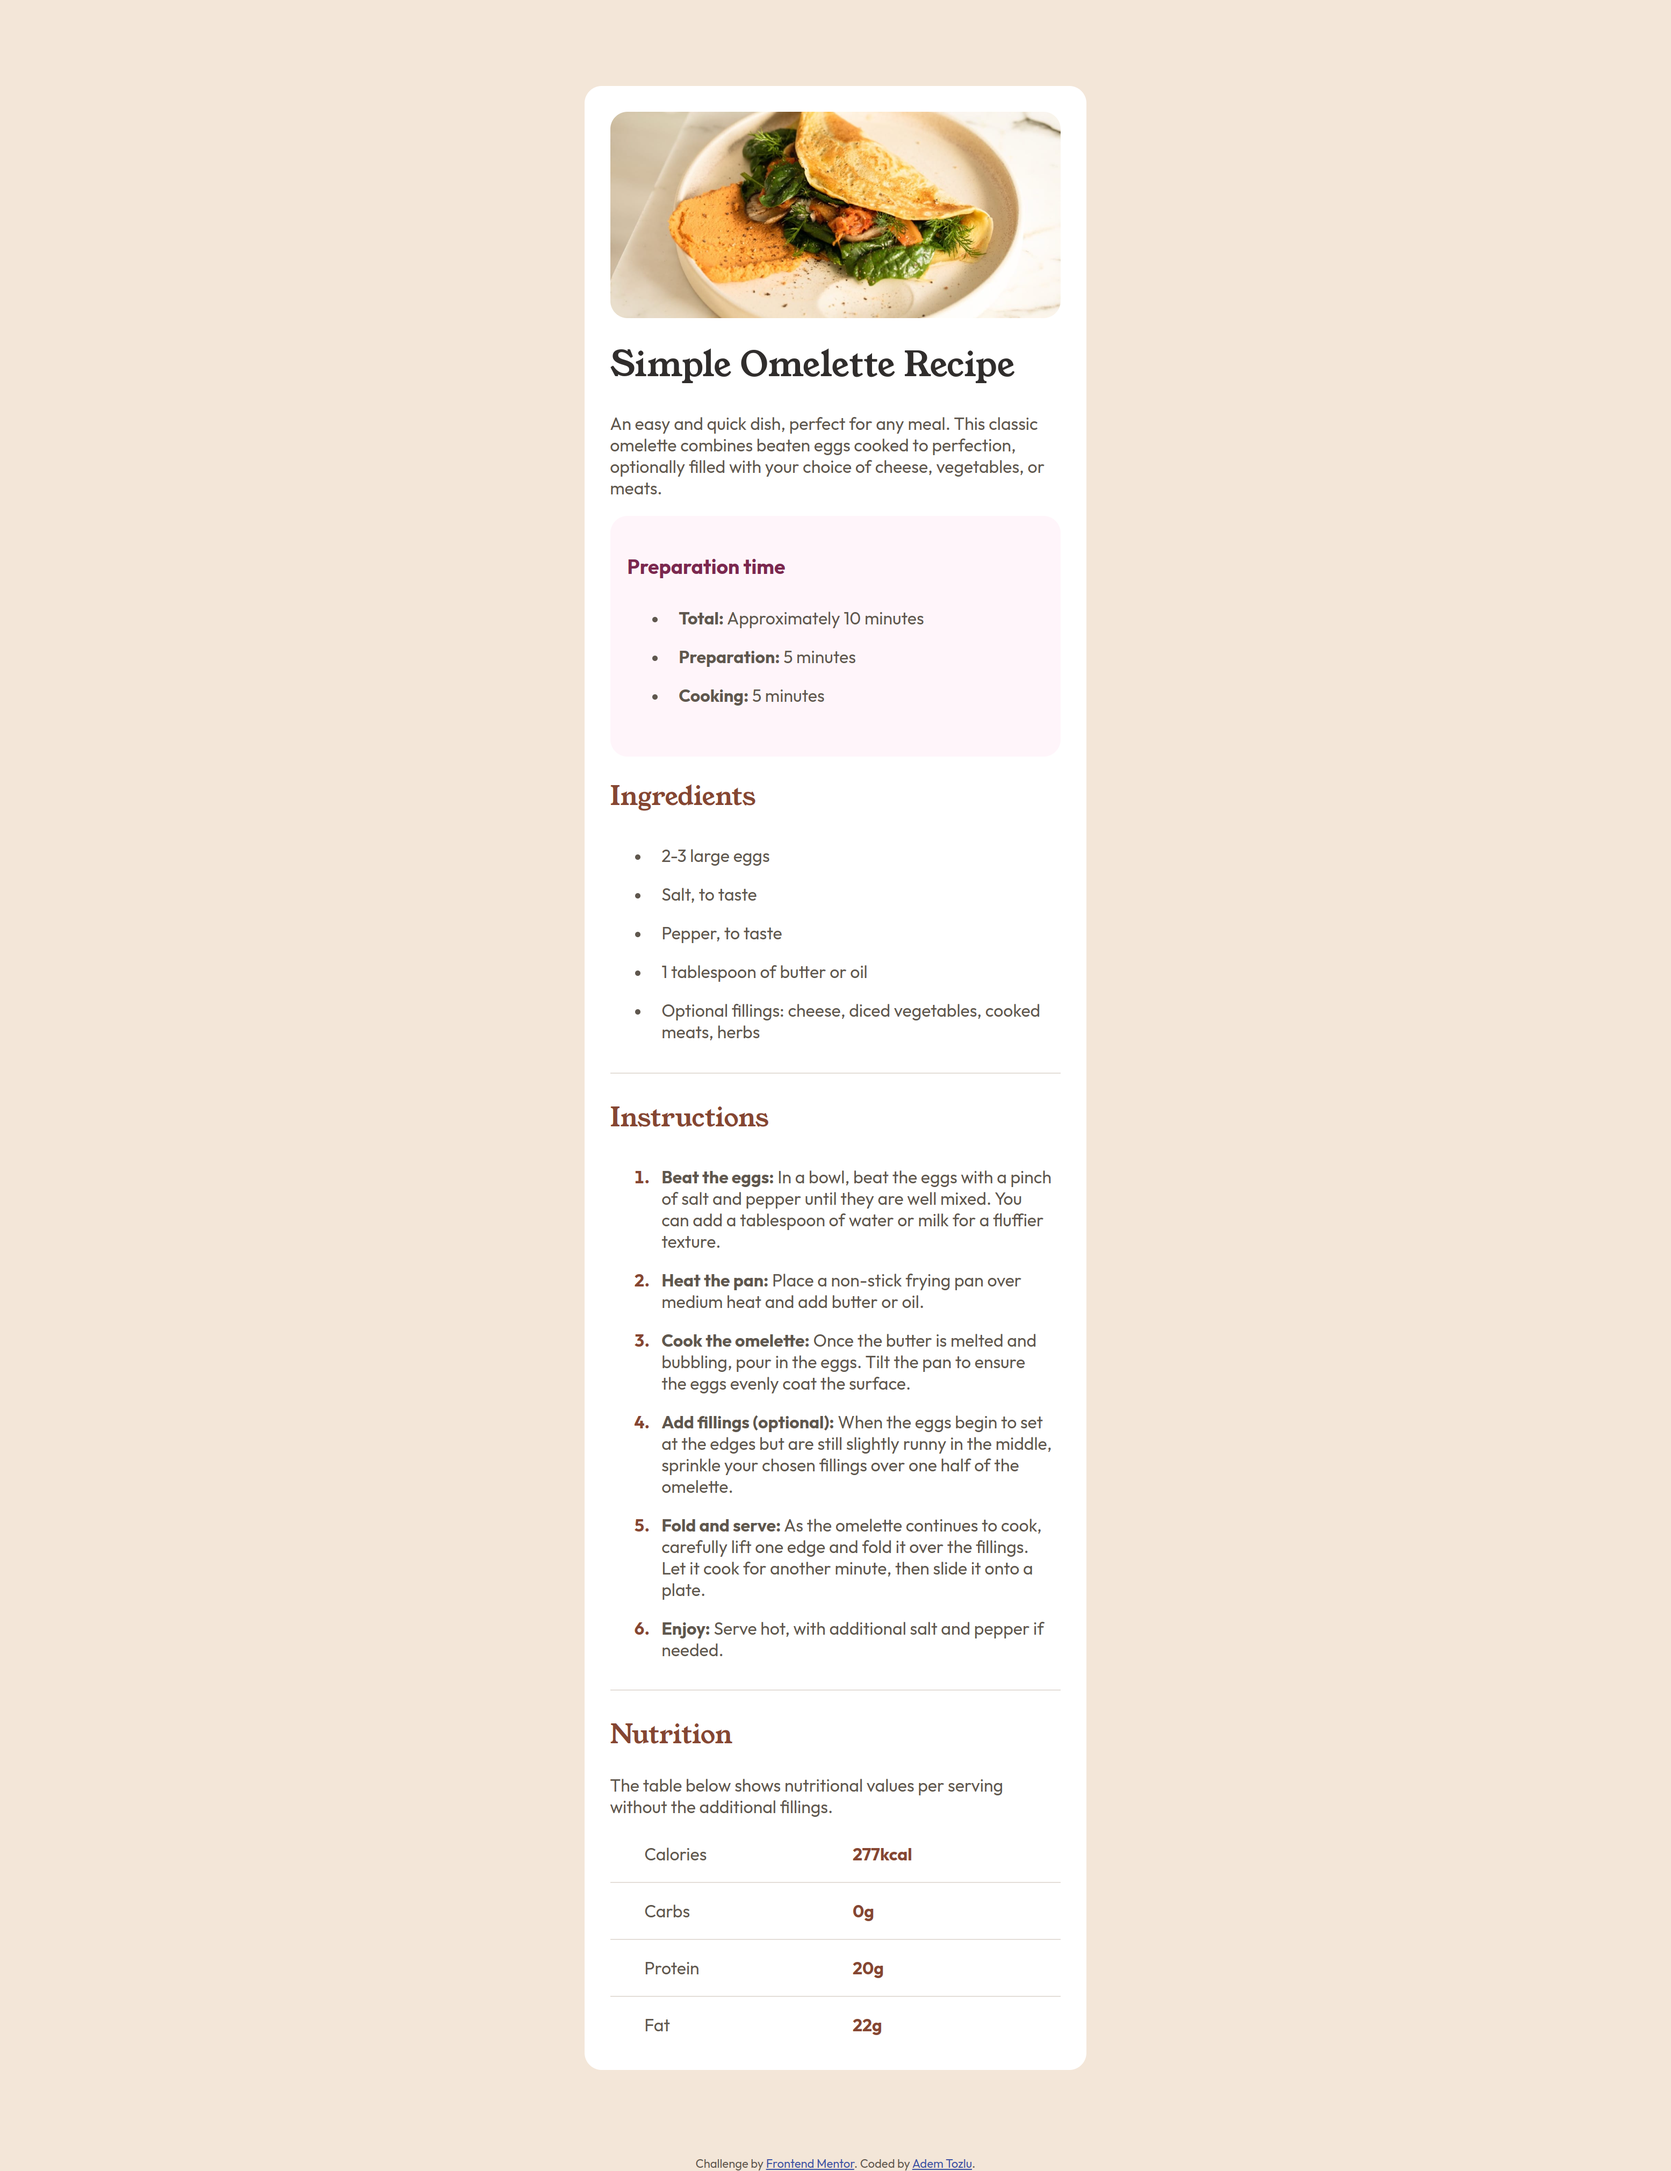
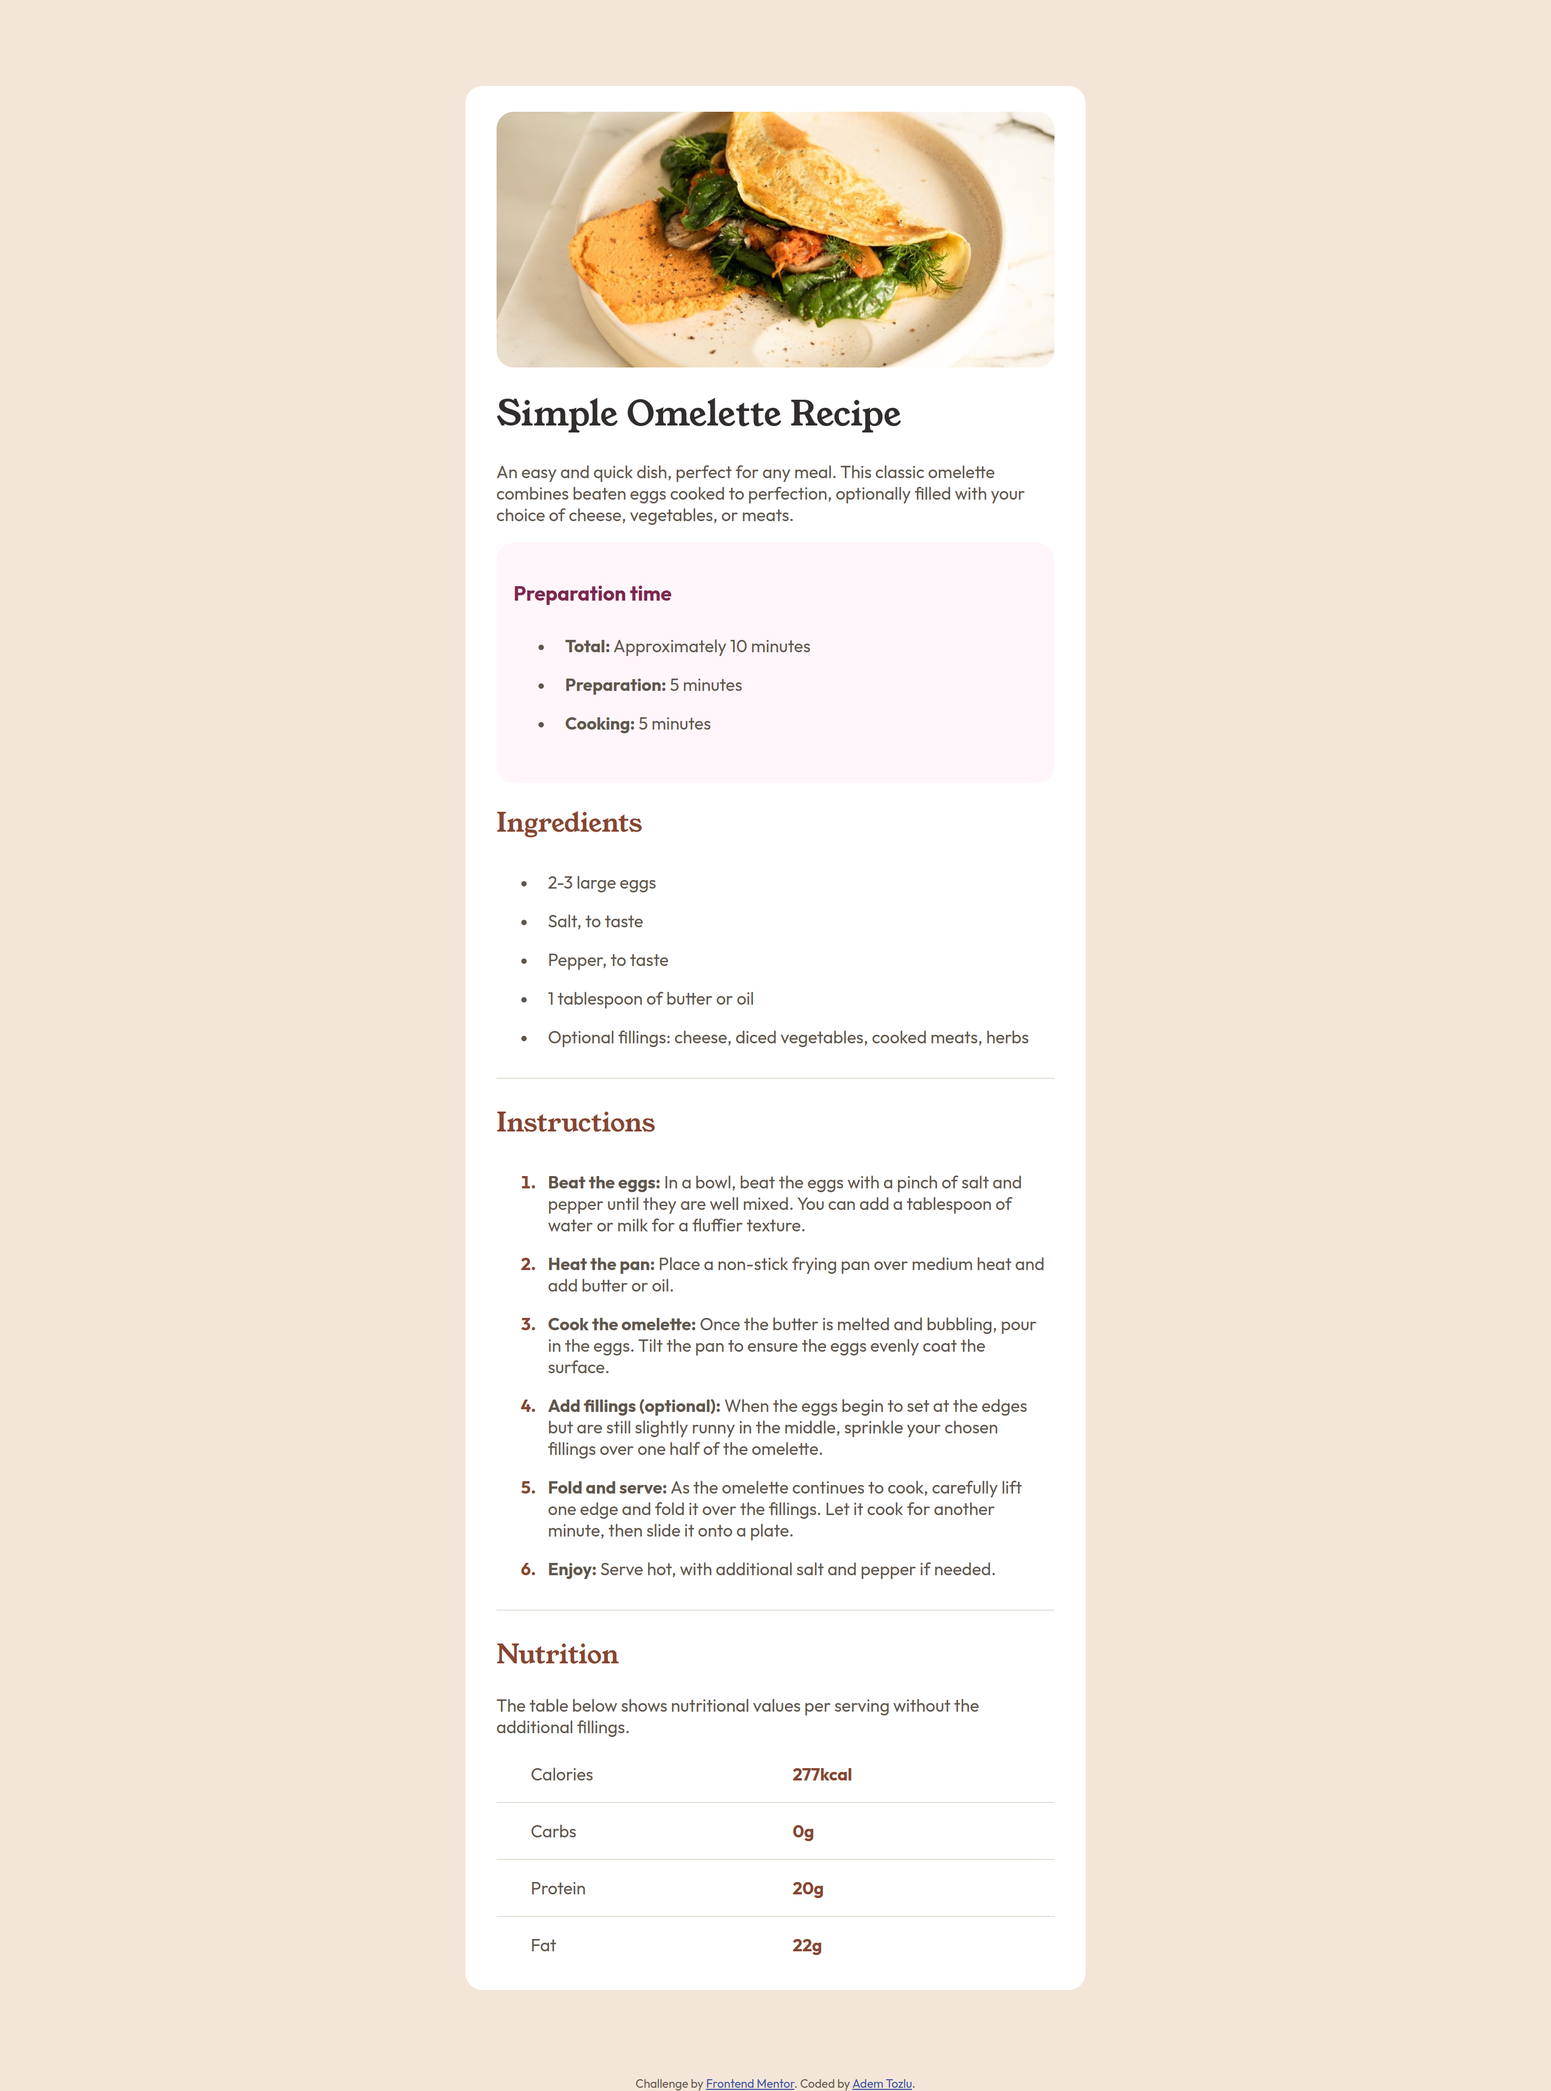
Style css bearbeitet

Changed region(s): [[0.2807, 0.0311, 0.7173, 0.9638], [0.4054, 0.9949, 0.5925, 1.0]]

diff --git a/style.css b/style.css
@@ -108,7 +108,7 @@ color: var(--color-primary-nutmeg);
     .body-main{
         border-radius: 1rem;
        
-    width: 30%;
+    width: 40%;
     margin: 5rem 0 ;
          background-color: var(--color-neutral-white);
     }
